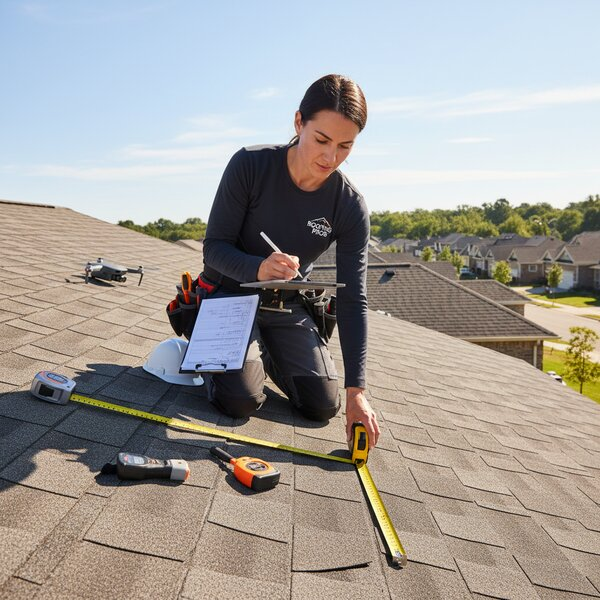
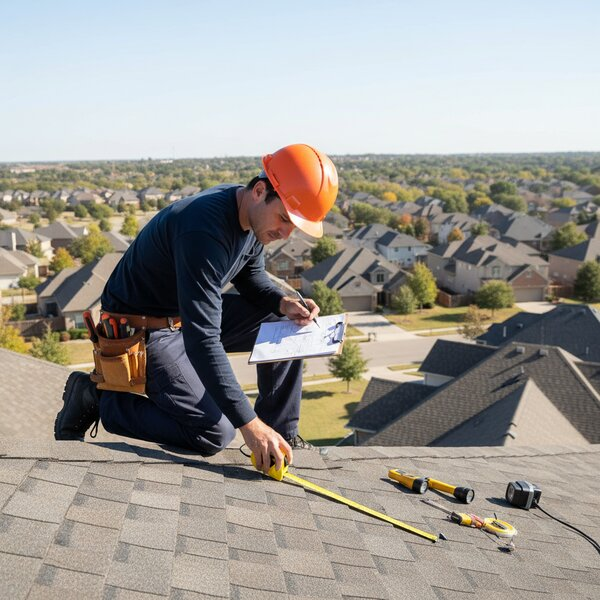
fix: eLocal compliance - remove 60-min response, add disclaimer, update process images
- Database: Changed 60-Minute Response to Quick Response for emergency-roof-repair
- Footer: Replaced generic disclaimer with eLocal-required home services disclaimer
- Images: Regenerated 3 process step images without brand names/logos

diff --git a/index.html b/index.html
@@ -1213,7 +1213,7 @@
           <a href="privacy.html">Privacy Policy</a>
           <a href="terms.html">Terms of Service</a>
         </p>
-        <p class="footer__disclaimer">Results may vary. Response times dependent on location and availability. All services performed by licensed contractors.</p>
+        <p class="footer__disclaimer">Roofing Service Experts is a free service to assist homeowners in connecting with local roofing contractors. All contractors/providers are independent and Roofing Service Experts does not warrant or guarantee any work performed. It is the responsibility of the homeowner to verify that the hired contractor furnishes the necessary license and insurance required for the work being performed. All persons depicted in a photo or video are actors or models and not contractors listed on Roofing Service Experts.</p>
       </div>
     </div>
   </footer>
